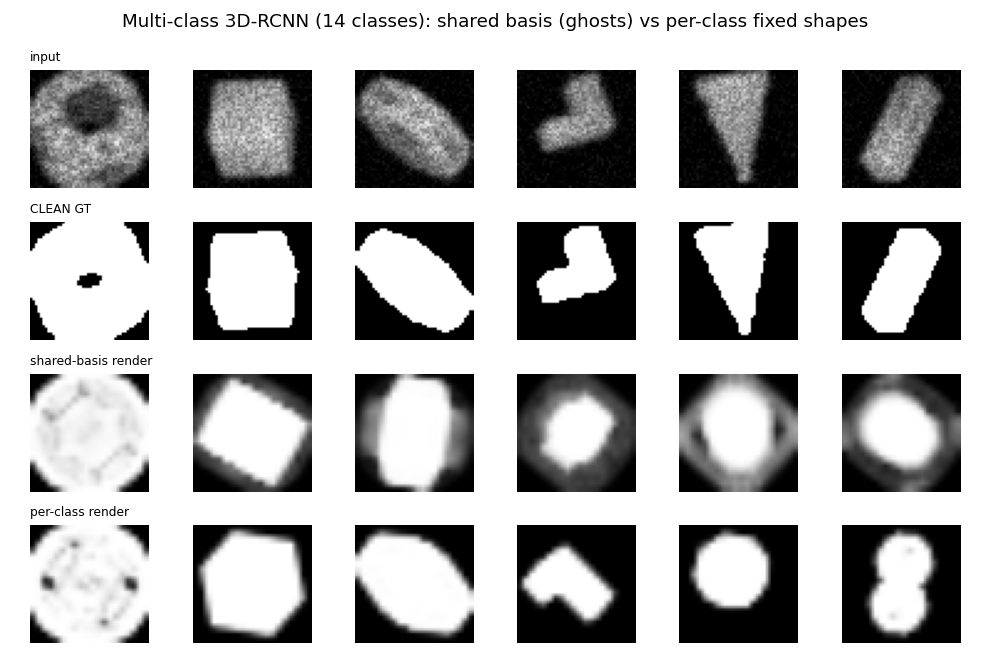
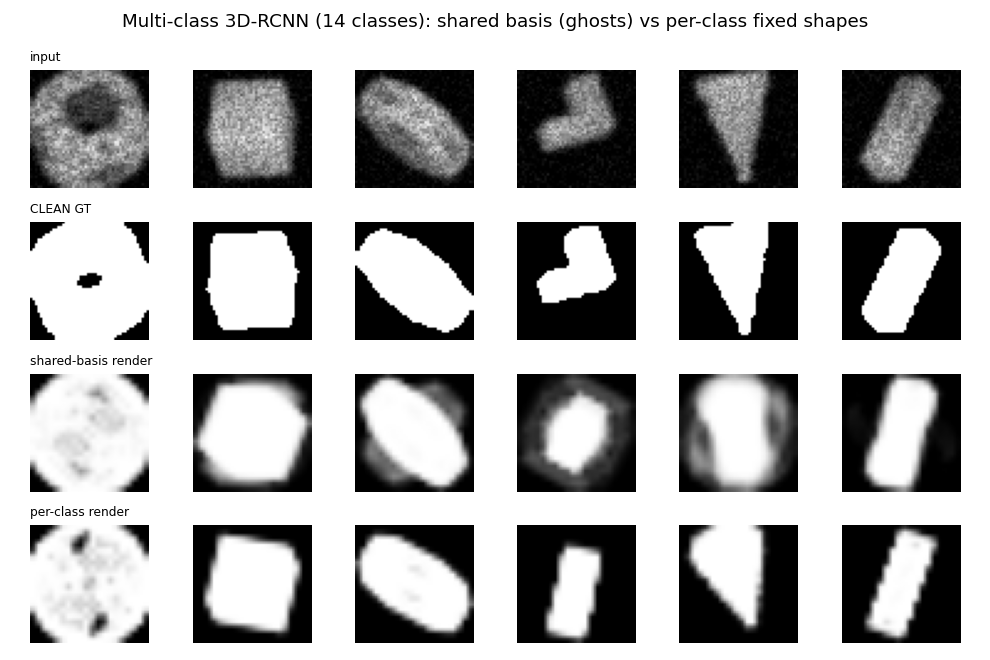
feat: ResNet backbone (from scratch, no torchvision) -> lifts the multi-class bottleneck
backbones.py: from-scratch ResNet (resnet10 CPU / resnet18 GPU; residual BasicBlocks,
configurable widths/depth). run_r3dcnn_multiclass.py: both heads now on the ResNet
(MCNet, ResShared). Trained on CPU (~18 min, render-and-compare dominates):
                       tiny CNN -> ResNet
  shared 8-dim basis:  0.678   -> 0.766  IoU
  per-class (IoU):     0.713   -> 0.755
  per-class class-acc: 0.833   -> 0.917   (the bottleneck, as predicted)
Nuance: with the stronger backbone the SHARED continuous-code model (graceful
degradation, ~0.82 lossy-basis ceiling) now edges per-class, whose residual 8%
misclassifications still render the wrong fixed shape (catastrophic). The paper's
strong ResNet-50 + intra-class shape basis is what makes per-class win at scale.

diff --git a/src/gestalt/backbones.py b/src/gestalt/backbones.py
@@ -1,0 +1,53 @@
+"""From-scratch ResNet backbone (no torchvision dependency) for the 3D-RCNN heads.
+
+The paper uses ResNet-50-C4 (ImageNet-pretrained). On our abstract synthetic
+silhouettes ImageNet features don't transfer, so we train a residual backbone
+from scratch; the win is depth + residual connections + capacity for the
+classification head (the multi-class bottleneck). Widths/blocks are configurable
+so it scales from a CPU-friendly ResNet-10 to a GPU ResNet-18/34.
+"""
+from __future__ import annotations
+import torch.nn as nn
+import torch.nn.functional as F
+
+
+class BasicBlock(nn.Module):
+    def __init__(self, cin, cout, stride=1):
+        super().__init__()
+        self.c1 = nn.Conv2d(cin, cout, 3, stride, 1, bias=False); self.b1 = nn.BatchNorm2d(cout)
+        self.c2 = nn.Conv2d(cout, cout, 3, 1, 1, bias=False); self.b2 = nn.BatchNorm2d(cout)
+        self.ds = None
+        if stride != 1 or cin != cout:
+            self.ds = nn.Sequential(nn.Conv2d(cin, cout, 1, stride, bias=False), nn.BatchNorm2d(cout))
+
+    def forward(self, x):
+        idt = x if self.ds is None else self.ds(x)
+        o = F.relu(self.b1(self.c1(x)), inplace=True)
+        o = self.b2(self.c2(o))
+        return F.relu(o + idt, inplace=True)
+
+
+class ResNet(nn.Module):
+    def __init__(self, in_ch=1, widths=(32, 64, 128, 256), blocks=(1, 1, 1, 1)):
+        super().__init__()
+        self.stem = nn.Sequential(nn.Conv2d(in_ch, widths[0], 3, 1, 1, bias=False),
+                                  nn.BatchNorm2d(widths[0]), nn.ReLU(inplace=True))
+        layers, cin = [], widths[0]
+        for i, (w, b) in enumerate(zip(widths, blocks)):
+            for j in range(b):
+                layers.append(BasicBlock(cin, w, stride=2 if (j == 0 and i > 0) else 1))
+                cin = w
+        self.layers = nn.Sequential(*layers)
+        self.out_dim = cin
+
+    def forward(self, x):
+        x = self.layers(self.stem(x))
+        return F.adaptive_avg_pool2d(x, 1).flatten(1)            # (N, out_dim)
+
+
+def resnet10(in_ch=1):   # CPU-friendly (blocks=1 per stage)
+    return ResNet(in_ch, (32, 64, 128, 256), (1, 1, 1, 1))
+
+
+def resnet18(in_ch=1):
+    return ResNet(in_ch, (64, 128, 256, 512), (2, 2, 2, 2))

diff --git a/experiments/run_r3dcnn_multiclass.py b/experiments/run_r3dcnn_multiclass.py
@@ -37,6 +37,7 @@ import matplotlib.pyplot as plt
 from gestalt.render3d import library
 from gestalt.ae3d import rotate3d, _down
 from gestalt.r3dcnn import voxelize, render_silhouette, quat_to_R, R3DCNN
+from gestalt.backbones import resnet10
 
 D, NCsh, H = 20, 8, 48
 torch.manual_seed(0)
@@ -53,14 +54,21 @@ def render_occ(occ_n, R):                              # occ_n (n, D^3) -> silho
     return F.interpolate(s, (H, H), mode="bilinear", align_corners=False)[:, 0]
 
 
-class MCNet(nn.Module):                                # class head + pose (fixed per-class shape)
+class MCNet(nn.Module):                                # ResNet backbone -> class head + pose
     def __init__(self, K, H):
         super().__init__()
-        self.conv = nn.Sequential(_down(1, 16), _down(16, 32), _down(32, 64))
-        self.cls = nn.Linear(64, K); self.pose = nn.Linear(64, 4)
+        self.bb = resnet10(1); d = self.bb.out_dim
+        self.cls = nn.Linear(d, K); self.pose = nn.Linear(d, 4)
     def forward(self, x):
-        h = F.adaptive_avg_pool2d(self.conv(x), 1).flatten(1)
-        return self.cls(h), quat_to_R(self.pose(h))
+        h = self.bb(x); return self.cls(h), quat_to_R(self.pose(h))
+
+
+class ResShared(nn.Module):                            # ResNet backbone -> shape code + pose
+    def __init__(self, nc, H):
+        super().__init__()
+        self.bb = resnet10(1); self.head = nn.Linear(self.bb.out_dim, nc + 4); self.nc = nc
+    def forward(self, x):
+        o = self.head(self.bb(x)); return o[:, :self.nc], quat_to_R(o[:, self.nc:])
 
 
 def iou(a, b):
@@ -92,7 +100,7 @@ def main():
     print(f"=== multi-class 3D-RCNN over {K} classes: shared basis vs per-class fixed shapes ===\n")
 
     # shared low-dim basis (continuous code + pose)
-    sh = R3DCNN(NCsh, H); opt = torch.optim.Adam(sh.parameters(), 1.5e-3); t0 = time.time()
+    sh = ResShared(NCsh, H); opt = torch.optim.Adam(sh.parameters(), 1.5e-3); t0 = time.time()
     for ep in range(60):
         p = torch.randperm(len(Xtr))
         for i in range(0, len(p), 32):